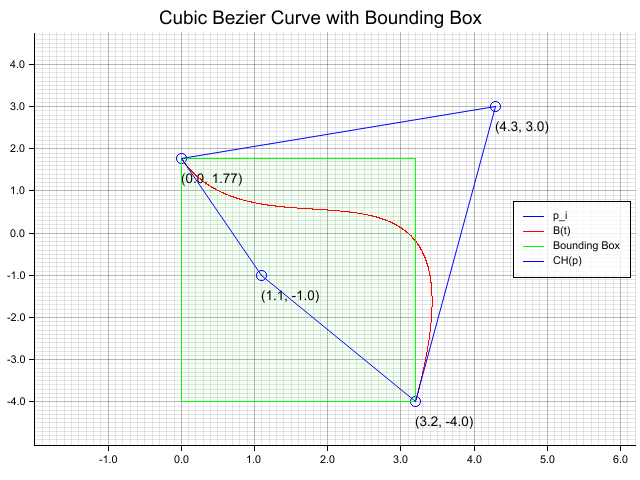
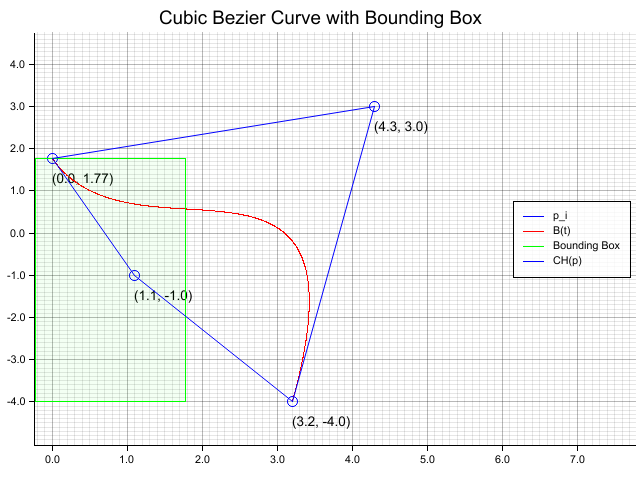
change QuadraticBezier.real_roots() to use ArrayVec; fix usage of derivative in CubicBezier.real_roots()

diff --git a/src/cubic_bezier.rs b/src/cubic_bezier.rs
@@ -347,7 +347,7 @@ where
     /// Compute the real roots of the cubic bezier function
     /// of the form a*t^3 + b*t^2 + c*t + d
     /// using cardano's algorithm
-    pub fn real_roots<F>(&self, a: F, b: F, c: F, d: F) -> ArrayVec<[F; 3]>
+    fn real_roots<F>(&self, a: F, b: F, c: F, d: F) -> ArrayVec<[F; 3]>
     where
     F: Float,
     P:  Sub<P, Output = P>
@@ -525,30 +525,32 @@ where
         + Float
         + Into<F>
     {
-        // calculate coefficients for at^3 + bt^2 + ct + d 
+        // calculate coefficients for the derivative: at^2 + bt + c
         // from the expansion of the cubic bezier curve: sum_i=0_to_3( binomial(3, i) * t^i * (1-t)^(n-i) )
         // yields coeffcients
-        // po: [1, -3,  3, -1]
-        // p1: [0,  3, -6,  3]
-        // p2: [0,  0,  3, -3]
-        // p3: [0,  0,  0,  1]
-        //      d   c   b   a
-        let a = self.start * -1.0.into() + self.ctrl1 * 3.0.into() - self.ctrl2 * 3.0.into() + self.end;
-        let b = self.start * 3.0.into() - self.ctrl1 * 6.0.into() + self.ctrl2 * 3.0.into();
-        let c = self.start * -3.0.into() + self.ctrl1 * 3.0.into();
-        let d = self.start;
+        // po: [1, -2,  1]
+        // p1: [0,  2, -2]
+        // p2: [0,  0,  1]
+        //      c   b   a
+
+        let derivative = self.derivative();
+        // calculate coefficients for derivative
+        let a = derivative.start + derivative.ctrl * -2.0.into() + self.end;
+        let b = derivative.start * -2.0.into() + derivative.ctrl * 2.0.into();
+        let c = self.start;
 
         // calculate roots for t over x axis and plug them into the bezier function
-        //  to get x,y values (make vec a bit bigger for t=0,t=1 values)
-        let mut xtremities: ArrayVec<[F; 5]> = ArrayVec::new();
-        xtremities.extend(self.real_roots(a.x().into(), 
-                                                b.x().into(), 
-                                                c.x().into(), 
-                                                d.x().into()
+        //  to get x,y values (make vec 2 bigger for t=0,t=1 values)
+        let mut xtremities: ArrayVec<[F; 4]> = ArrayVec::new();
+        xtremities.extend(derivative.real_roots(
+                                            a.x().into(), 
+                                            b.x().into(), 
+                                            c.x().into(), 
                                             ).into_iter()
                         );
-        // only retain roots for which t is in [0..1]
+        // only retain roots for which t is in [0..1] 
         xtremities.retain(|root| -> bool {root > &mut 0.0.into() && root < &mut 1.0.into()});
+        // evaluates roots in original function
         for t in xtremities.iter_mut() {
             *t = self.eval_casteljau(*t).x().into();
         }
@@ -559,16 +561,17 @@ where
         xtremities.sort_unstable_by(|a, b| a.partial_cmp(b).unwrap());
 
         // same for y...
-        let mut ytremities: ArrayVec<[F; 5]> = ArrayVec::new();
-        ytremities.extend(self.real_roots(a.y().into(), 
-                                                b.y().into(), 
-                                                c.y().into(), 
-                                                d.y().into()
+        let mut ytremities: ArrayVec<[F; 4]> = ArrayVec::new();
+        ytremities.extend(derivative.real_roots(
+                                            a.y().into(), 
+                                            b.y().into(), 
+                                            c.y().into(), 
                                             ).into_iter()
                         );
-        // only retain roots for which t is in [0..1]
+        // only retain roots for which t is in [0..1] 
         ytremities.retain(|root| -> bool {root > &mut 0.0.into() && root < &mut 1.0.into()});
-        for t in ytremities.iter_mut() {
+        // evaluates roots in original function
+        for t in xtremities.iter_mut() {
             *t = self.eval_casteljau(*t).y().into();
         }
         // add y-values for start and end point as candidates
@@ -576,7 +579,6 @@ where
         ytremities.push(self.end.y().into());
         // sort to get min and max values for bounding box
         ytremities.sort_unstable_by(|a, b| a.partial_cmp(b).unwrap());
-
         // determine xmin, xmax, ymin, ymax, from the set {B(xroots), B(yroots), B(0), B(1)} 
         // (Intermediate control points can't form a boundary)
         let min = (xtremities[0], ytremities[0]);
@@ -760,9 +762,9 @@ mod tests
         for t in 0..nsteps {
             let t = t as f64 * 1f64/(nsteps as f64);
             let p = bezier.eval_casteljau(t);
-            // dbg!(t);
-            // dbg!(p);
-            // dbg!(xmin-max_err, ymin-max_err, xmax+max_err, ymax+max_err);
+            dbg!(t);
+            dbg!(p);
+            dbg!(xmin-max_err, ymin-max_err, xmax+max_err, ymax+max_err);
 
             assert!( (p.x() >= (xmin-max_err) ) && (p.y() >= (ymin-max_err)) );
             assert!( (p.x() <= (xmax+max_err) ) && (p.y() <= (ymax+max_err)) );

diff --git a/src/quadratic_bezier.rs b/src/quadratic_bezier.rs
@@ -152,7 +152,8 @@ NativeFloat: Sub<NativeFloat, Output = NativeFloat>
         return self.start.y().into() * c0 + self.ctrl.y().into() * c1 + self.end.y().into() * c2;
     }
 
-
+    /// Calculates the curvature of the curve at point t
+    /// The curvature is the inverse of the radius of the tangential circle at t: k=1/r
     pub fn curvature<F>(&self, t: F) -> F
     where
     F: Float,
@@ -175,6 +176,8 @@ NativeFloat: Sub<NativeFloat, Output = NativeFloat>
         return numerator / denominator
     }
 
+    /// Calculates the radius of the tangential circle at t
+    /// It is the inverse of the curvature at t: r=1/k
     pub fn radius<F>(&self, t: F) -> F
     where
     F: Float,
@@ -190,42 +193,45 @@ NativeFloat: Sub<NativeFloat, Output = NativeFloat>
     }
 
 
-    /// Solve for the roots of the bezier curve
-    /// Will return an array of roots in the order: [[x1, x2], [y1, y2]] 
-    /// All roots not positive will return NaN an need to be checked
-    /// All roots not in [0,1] are also not meaningful in this context and can be discarded
-    pub fn real_roots(&self) -> [[NativeFloat; 2]; 2] 
+    /// Solve for the roots of the polynomial at^2 + bt + c
+    /// Returns an ArrayVec of roots in the order
+    /// needs to be called for x and y components separately
+    pub(crate) fn real_roots<F>(&self, a: F, b: F, c: F) -> ArrayVec<[F; 2]>
     where
+    F: Float,
     P:  Sub<P, Output = P>
         + Add<P, Output = P>
         + Mul<NativeFloat, Output = P>,
-    NativeFloat: Sub<NativeFloat, Output = NativeFloat> 
-        + Mul<NativeFloat, Output = NativeFloat>
-        {
-        // by substituion we get the coefficients for the quadratic formula
-        // r1,2 = ( -b +/- sqrt(b^2 - 4ac) ) / 2a 
-        let a: P = self.start - (self.ctrl * 2. as NativeFloat) + self.end;
-        let b: P = (self.ctrl - self.start) * 2. as NativeFloat;
-        let c: P = self.start;
-        let mut rx1: NativeFloat =  (b.x() * (-1.) + (b.x() * b.x() - a.x() * c.x() * 4.).sqrt() ) / (a.x() * 2.);
-        let mut rx2: NativeFloat =  (b.x() * (-1.) - (b.x() * b.x() - a.x() * c.x() * 4.).sqrt() ) / (a.x() * 2.);
+        NativeFloat: Sub<F, Output = F> 
+        + Add<F, Output = F>
+        + Mul<F, Output = F>
+        + Float
+        + Into<F>
+    {
 
-        let mut ry1: NativeFloat =  (b.y() * (-1.) + (b.y() * b.y() - a.y() * c.y() * 4.).sqrt() ) / (a.y() * 2.);
-        let mut ry2: NativeFloat =  (b.y() * (-1.) - (b.y() * b.y() - a.y() * c.y() * 4.).sqrt() ) / (a.y() * 2.);
+        let mut result = ArrayVec::new();
+        let epsilon = 1e-5.into();
 
-        //clean up any NaN values by replacing with its sibling value (to not mess up ordering later on)
-        if rx1.is_nan() && !rx2.is_nan() {
-            rx1 = rx2;
-        } else if !rx1.is_nan() && rx2.is_nan() {
-            rx2 = rx1
+        // check if can be handled below cubic order
+        if a.abs() < epsilon {
+            if b.abs() < epsilon {
+                // no solutions
+                return result;
+            }
+            // is linear equation
+            result.push(-c / b);
+            return result;
         }
-
-        if ry1.is_nan() && !ry2.is_nan() {
-            ry1 = ry2;
-        } else if !ry1.is_nan() && ry2.is_nan() {
-            ry2 = ry1
+        // is quadratic equation
+        let delta = b * b - 4.0.into() * a * c;
+        if delta > 0.0.into() {
+            let sqrt_delta = delta.sqrt();
+            result.push((-b - sqrt_delta) / (2.0.into() * a));
+            result.push((-b + sqrt_delta) / (2.0.into() * a));
+        } else if delta.abs() < epsilon {
+            result.push(-b / (2.0.into() * a));
         }
-
-        return [[rx1, rx2], [ry1, ry2]];
+        return result;
     }
+
 }

diff --git a/examples/plotters.rs b/examples/plotters.rs
@@ -47,7 +47,7 @@ fn main() -> Result<(), Box<dyn std::error::Error>> {
         .margin(5)
         .x_label_area_size(30)
         .y_label_area_size(30)
-        .build_ranged((xmin-2.0)..xmax+3.0, ymin-1.0..ymax+3.0)?; // make graph a bit bigger than bounding box 
+        .build_ranged((xmin-2.0)..xmin+6.0, ymin-1.0..ymax+3.0)?; // make graph a bit bigger than bounding box 
 
     chart.configure_mesh().draw()?;
 

diff --git a/src/lib.rs b/src/lib.rs
@@ -1,4 +1,4 @@
-#![no_std]
+//#![no_std]
 use core::ops::{Add, Sub, Mul};
 
 extern crate num_traits;
